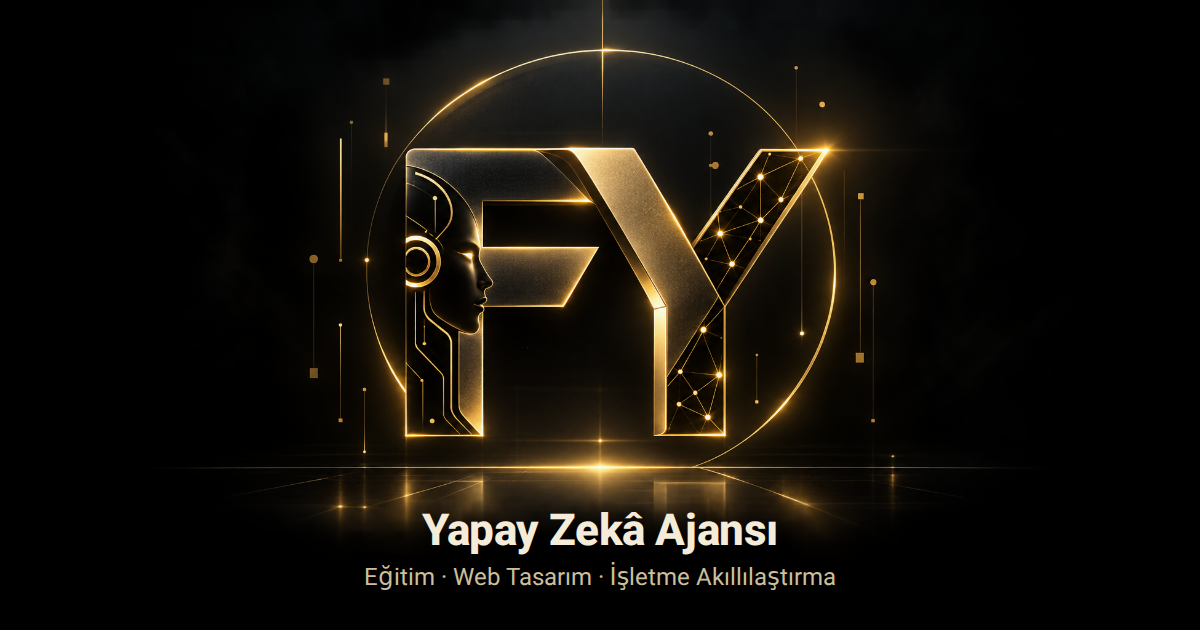
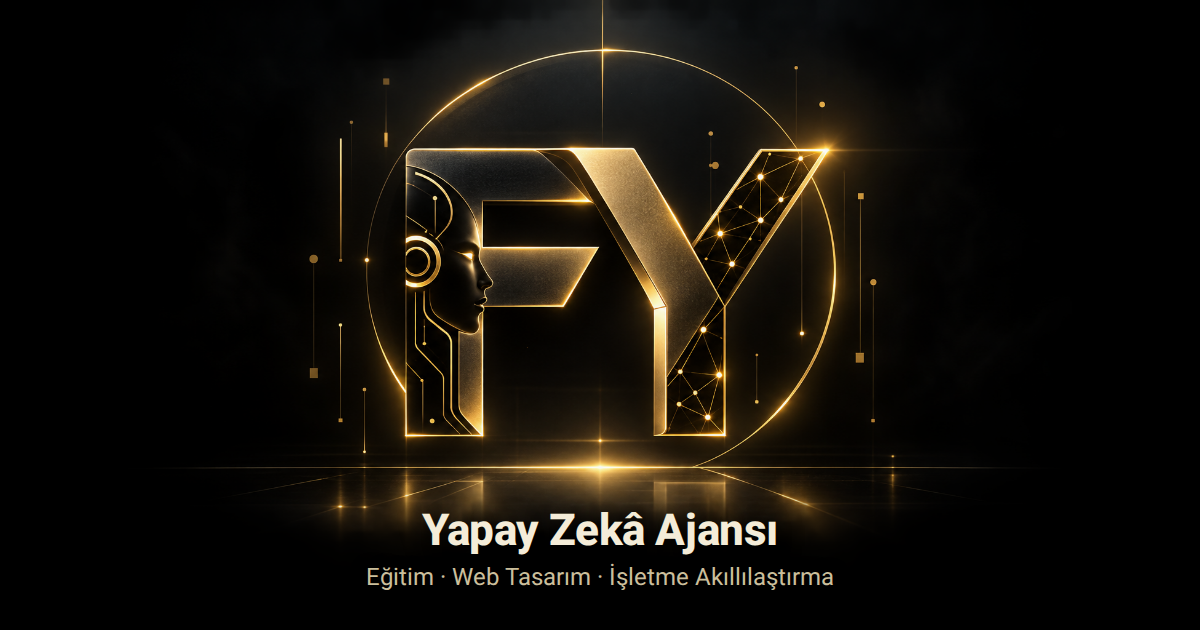
Dile göre paylaşım görseli: og-en/de/fa.png ve sayfalarda dile özel og:image
Tek Türkçe og.png yerine dört görsel: og.png (TR), og-en.png, og-de.png, og-fa.png.
tools/build-logo.mjs --raster hepsini logo-master.png üzerine kendi dilinde başlık ve
sloganla üretir; Farsça sağdan sola, Vazirmatn Arapça alt kümesiyle. build-i18n
üretilen sayfalarda og:image ve twitter:image yolunu img/og-<dil>.png'ye çevirir.
README güncellendi; de/ en/ fa/ yeniden üretildi.

Claude-Session: https://claude.ai/code/session_01TL9bsEsEw7BeuSuSjgKfUq

Changed region(s): [[0.2775, 0.9048, 0.7092, 0.9349]]

diff --git a/fa/index.html b/fa/index.html
@@ -25,13 +25,13 @@
 <meta property="og:title" data-i18n-attr="content=og.title" content="FY — آژانس هوش مصنوعی | آموزش، طراحی وب و هوشمندسازی کسبوکار">
 <meta property="og:description" data-i18n-attr="content=og.description" content="FY یک آژانس هوش مصنوعی است: دورهٔ «سفر هوش مصنوعی» در ۷ فصل، سایت با CRM و هوش مصنوعی، کسبوکار هوشمندتر با اتوماسیون.">
 <meta property="og:url" content="https://ferhat-yasinoglu.github.io/fy-ajans/fa/">
-<meta property="og:image" content="https://ferhat-yasinoglu.github.io/fy-ajans/img/og.png">
+<meta property="og:image" content="https://ferhat-yasinoglu.github.io/fy-ajans/img/og-fa.png">
 <meta property="og:image:width" content="1200">
 <meta property="og:image:height" content="630">
 <meta property="og:image:type" content="image/png">
 <meta property="og:image:alt" data-i18n-attr="content=og.imageAlt" content="FY — آژانس هوش مصنوعی">
 <meta name="twitter:card" content="summary_large_image">
-<meta name="twitter:image" content="https://ferhat-yasinoglu.github.io/fy-ajans/img/og.png">
+<meta name="twitter:image" content="https://ferhat-yasinoglu.github.io/fy-ajans/img/og-fa.png">
 <meta name="twitter:title" data-i18n-attr="content=og.imageAlt" content="FY — آژانس هوش مصنوعی">
 <meta name="twitter:description" data-i18n-attr="content=tw.description" content="آموزش، طراحی وب و هوشمندسازی کسبوکار — همه بر پایهٔ هوش مصنوعی.">
 <link rel="icon" href="../img/logo.svg" type="image/svg+xml">

diff --git a/de/index.html b/de/index.html
@@ -25,13 +25,13 @@
 <meta property="og:title" data-i18n-attr="content=og.title" content="FY — KI-Agentur | KI-Kurs, Webdesign und Automatisierung">
 <meta property="og:description" data-i18n-attr="content=og.description" content="FY ist eine KI-Agentur: Der Kurs «KI-Reise» in 7 Kapiteln, Websites mit CRM und KI, smartere Unternehmen durch Automatisierung.">
 <meta property="og:url" content="https://ferhat-yasinoglu.github.io/fy-ajans/de/">
-<meta property="og:image" content="https://ferhat-yasinoglu.github.io/fy-ajans/img/og.png">
+<meta property="og:image" content="https://ferhat-yasinoglu.github.io/fy-ajans/img/og-de.png">
 <meta property="og:image:width" content="1200">
 <meta property="og:image:height" content="630">
 <meta property="og:image:type" content="image/png">
 <meta property="og:image:alt" data-i18n-attr="content=og.imageAlt" content="FY — KI-Agentur">
 <meta name="twitter:card" content="summary_large_image">
-<meta name="twitter:image" content="https://ferhat-yasinoglu.github.io/fy-ajans/img/og.png">
+<meta name="twitter:image" content="https://ferhat-yasinoglu.github.io/fy-ajans/img/og-de.png">
 <meta name="twitter:title" data-i18n-attr="content=og.imageAlt" content="FY — KI-Agentur">
 <meta name="twitter:description" data-i18n-attr="content=tw.description" content="Schulung, Webdesign und smartere Unternehmen — alles auf Basis von KI.">
 <link rel="icon" href="../img/logo.svg" type="image/svg+xml">

diff --git a/en/index.html b/en/index.html
@@ -25,13 +25,13 @@
 <meta property="og:title" data-i18n-attr="content=og.title" content="FY — AI Agency | AI Course, Web Design and Business Automation">
 <meta property="og:description" data-i18n-attr="content=og.description" content="FY is an AI agency: the «AI Journey» course in 7 chapters, websites with CRM and AI, smarter businesses through automation.">
 <meta property="og:url" content="https://ferhat-yasinoglu.github.io/fy-ajans/en/">
-<meta property="og:image" content="https://ferhat-yasinoglu.github.io/fy-ajans/img/og.png">
+<meta property="og:image" content="https://ferhat-yasinoglu.github.io/fy-ajans/img/og-en.png">
 <meta property="og:image:width" content="1200">
 <meta property="og:image:height" content="630">
 <meta property="og:image:type" content="image/png">
 <meta property="og:image:alt" data-i18n-attr="content=og.imageAlt" content="FY — AI Agency">
 <meta name="twitter:card" content="summary_large_image">
-<meta name="twitter:image" content="https://ferhat-yasinoglu.github.io/fy-ajans/img/og.png">
+<meta name="twitter:image" content="https://ferhat-yasinoglu.github.io/fy-ajans/img/og-en.png">
 <meta name="twitter:title" data-i18n-attr="content=og.imageAlt" content="FY — AI Agency">
 <meta name="twitter:description" data-i18n-attr="content=tw.description" content="Training, web design and smarter businesses — all built on AI.">
 <link rel="icon" href="../img/logo.svg" type="image/svg+xml">

diff --git a/fa/contact/course.html b/fa/contact/course.html
@@ -17,11 +17,11 @@
 <meta property="og:title" data-i18n-attr="content=og.title" content="سفر هوش مصنوعی — دورهٔ پروژهمحور هوش مصنوعی در ۷ فصل">
 <meta property="og:description" data-i18n-attr="content=og.description" content="از صفرِ مطلق تا مهارتی که پول میسازد: پرامپت، اتوماسیون n8n، Claude Code، ساخت سایت و CRM، ویدیو و بازاریابی. ۱۰۰ یورو.">
 <meta property="og:url" content="https://ferhat-yasinoglu.github.io/fy-ajans/fa/contact/course.html">
-<meta property="og:image" content="https://ferhat-yasinoglu.github.io/fy-ajans/img/og.png">
+<meta property="og:image" content="https://ferhat-yasinoglu.github.io/fy-ajans/img/og-fa.png">
 <meta property="og:image:width" content="1200">
 <meta property="og:image:height" content="630">
 <meta name="twitter:card" content="summary_large_image">
-<meta name="twitter:image" content="https://ferhat-yasinoglu.github.io/fy-ajans/img/og.png">
+<meta name="twitter:image" content="https://ferhat-yasinoglu.github.io/fy-ajans/img/og-fa.png">
 <meta name="theme-color" content="#0a0a0a">
 <meta name="color-scheme" content="dark">
 <link rel="icon" href="../../img/logo.svg" type="image/svg+xml">

diff --git a/de/contact/course.html b/de/contact/course.html
@@ -17,11 +17,11 @@
 <meta property="og:title" data-i18n-attr="content=og.title" content="KI-Reise — projektbasierter KI-Kurs in 7 Kapiteln">
 <meta property="og:description" data-i18n-attr="content=og.description" content="Von absolut null zur Fähigkeit, die Geld verdient: Prompting, n8n-Automatisierung, Claude Code, Website und CRM bauen, Video und Marketing. 100 €.">
 <meta property="og:url" content="https://ferhat-yasinoglu.github.io/fy-ajans/de/contact/course.html">
-<meta property="og:image" content="https://ferhat-yasinoglu.github.io/fy-ajans/img/og.png">
+<meta property="og:image" content="https://ferhat-yasinoglu.github.io/fy-ajans/img/og-de.png">
 <meta property="og:image:width" content="1200">
 <meta property="og:image:height" content="630">
 <meta name="twitter:card" content="summary_large_image">
-<meta name="twitter:image" content="https://ferhat-yasinoglu.github.io/fy-ajans/img/og.png">
+<meta name="twitter:image" content="https://ferhat-yasinoglu.github.io/fy-ajans/img/og-de.png">
 <meta name="theme-color" content="#0a0a0a">
 <meta name="color-scheme" content="dark">
 <link rel="icon" href="../../img/logo.svg" type="image/svg+xml">

diff --git a/en/contact/course.html b/en/contact/course.html
@@ -17,11 +17,11 @@
 <meta property="og:title" data-i18n-attr="content=og.title" content="AI Journey — a project-based AI course in 7 chapters">
 <meta property="og:description" data-i18n-attr="content=og.description" content="From absolute zero to a skill that earns money: prompting, n8n automation, Claude Code, building websites and CRMs, video and marketing. €100.">
 <meta property="og:url" content="https://ferhat-yasinoglu.github.io/fy-ajans/en/contact/course.html">
-<meta property="og:image" content="https://ferhat-yasinoglu.github.io/fy-ajans/img/og.png">
+<meta property="og:image" content="https://ferhat-yasinoglu.github.io/fy-ajans/img/og-en.png">
 <meta property="og:image:width" content="1200">
 <meta property="og:image:height" content="630">
 <meta name="twitter:card" content="summary_large_image">
-<meta name="twitter:image" content="https://ferhat-yasinoglu.github.io/fy-ajans/img/og.png">
+<meta name="twitter:image" content="https://ferhat-yasinoglu.github.io/fy-ajans/img/og-en.png">
 <meta name="theme-color" content="#0a0a0a">
 <meta name="color-scheme" content="dark">
 <link rel="icon" href="../../img/logo.svg" type="image/svg+xml">

diff --git a/fa/contact/index.html b/fa/contact/index.html
@@ -17,11 +17,11 @@
 <meta property="og:title" data-i18n-attr="content=meta.title" content="فرهاد یعقوبی — FY | هوش مصنوعی">
 <meta property="og:description" data-i18n-attr="content=og.description" content="بنیانگذار FY. دوره، آموزشهای رایگان، کانالها و راههای تماس.">
 <meta property="og:url" content="https://ferhat-yasinoglu.github.io/fy-ajans/fa/contact/">
-<meta property="og:image" content="https://ferhat-yasinoglu.github.io/fy-ajans/img/og.png">
+<meta property="og:image" content="https://ferhat-yasinoglu.github.io/fy-ajans/img/og-fa.png">
 <meta property="og:image:width" content="1200">
 <meta property="og:image:height" content="630">
 <meta name="twitter:card" content="summary_large_image">
-<meta name="twitter:image" content="https://ferhat-yasinoglu.github.io/fy-ajans/img/og.png">
+<meta name="twitter:image" content="https://ferhat-yasinoglu.github.io/fy-ajans/img/og-fa.png">
 <meta name="theme-color" content="#0a0a0a">
 <meta name="color-scheme" content="dark">
 <link rel="icon" href="../../img/logo.svg" type="image/svg+xml">

diff --git a/de/contact/index.html b/de/contact/index.html
@@ -17,11 +17,11 @@
 <meta property="og:title" data-i18n-attr="content=meta.title" content="Farhad Yaqoobi — FY | KI">
 <meta property="og:description" data-i18n-attr="content=og.description" content="Gründer von FY. Kurs, kostenlose Schulungen, Kanäle und Kontaktlinks.">
 <meta property="og:url" content="https://ferhat-yasinoglu.github.io/fy-ajans/de/contact/">
-<meta property="og:image" content="https://ferhat-yasinoglu.github.io/fy-ajans/img/og.png">
+<meta property="og:image" content="https://ferhat-yasinoglu.github.io/fy-ajans/img/og-de.png">
 <meta property="og:image:width" content="1200">
 <meta property="og:image:height" content="630">
 <meta name="twitter:card" content="summary_large_image">
-<meta name="twitter:image" content="https://ferhat-yasinoglu.github.io/fy-ajans/img/og.png">
+<meta name="twitter:image" content="https://ferhat-yasinoglu.github.io/fy-ajans/img/og-de.png">
 <meta name="theme-color" content="#0a0a0a">
 <meta name="color-scheme" content="dark">
 <link rel="icon" href="../../img/logo.svg" type="image/svg+xml">

diff --git a/en/contact/index.html b/en/contact/index.html
@@ -17,11 +17,11 @@
 <meta property="og:title" data-i18n-attr="content=meta.title" content="Farhad Yaqoobi — FY | AI">
 <meta property="og:description" data-i18n-attr="content=og.description" content="Founder of FY. Course, free trainings, channels and contact links.">
 <meta property="og:url" content="https://ferhat-yasinoglu.github.io/fy-ajans/en/contact/">
-<meta property="og:image" content="https://ferhat-yasinoglu.github.io/fy-ajans/img/og.png">
+<meta property="og:image" content="https://ferhat-yasinoglu.github.io/fy-ajans/img/og-en.png">
 <meta property="og:image:width" content="1200">
 <meta property="og:image:height" content="630">
 <meta name="twitter:card" content="summary_large_image">
-<meta name="twitter:image" content="https://ferhat-yasinoglu.github.io/fy-ajans/img/og.png">
+<meta name="twitter:image" content="https://ferhat-yasinoglu.github.io/fy-ajans/img/og-en.png">
 <meta name="theme-color" content="#0a0a0a">
 <meta name="color-scheme" content="dark">
 <link rel="icon" href="../../img/logo.svg" type="image/svg+xml">

diff --git a/README.md b/README.md
@@ -93,7 +93,7 @@ img/logo.svg          favicon (koyu yuvarlak kare + harfler), aynı betik üreti
 js/fyos-local.js      FYOS tarayıcı içi model (WebGPU, ücretsiz)
 worker/               FYOS için Cloudflare Worker (gerçek yapay zekâ sohbeti; isteğe bağlı)
 tools/set-domain.ps1  alan adı değişince tüm adresleri tek komutla çevirir
-img/og.png            paylaşım görseli (1200×630; logo-master.png + slogan, betik üretir; sosyal ağlar PNG ister)
+img/og.png, og-*.png  paylaşım görselleri (1200×630; logo-master.png + slogan, betik üretir; TR og.png, en/de/fa og-<dil>.png — build-i18n og:image'ı çevirir)
 img/icon-*.png        uygulama simgeleri (180 iOS, 192/512 manifest; logo.svg'den betik üretir)
 tools/build-logo.mjs  logo üretici: SVG'ler bağımlılıksız, PNG'ler için --raster (Playwright + Chromium)
 brand/                marka kiti: profil fotoğrafı, şeffaf PNG, tek renk siyah/beyaz, TR/EN/DE yatay kilit (--kit üretir; liste brand/README.md)
